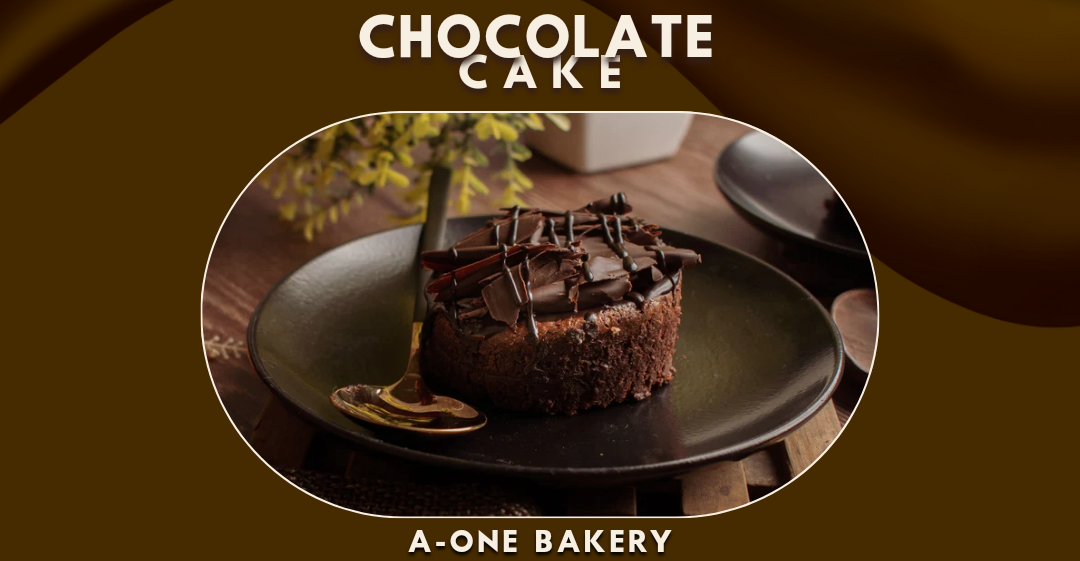
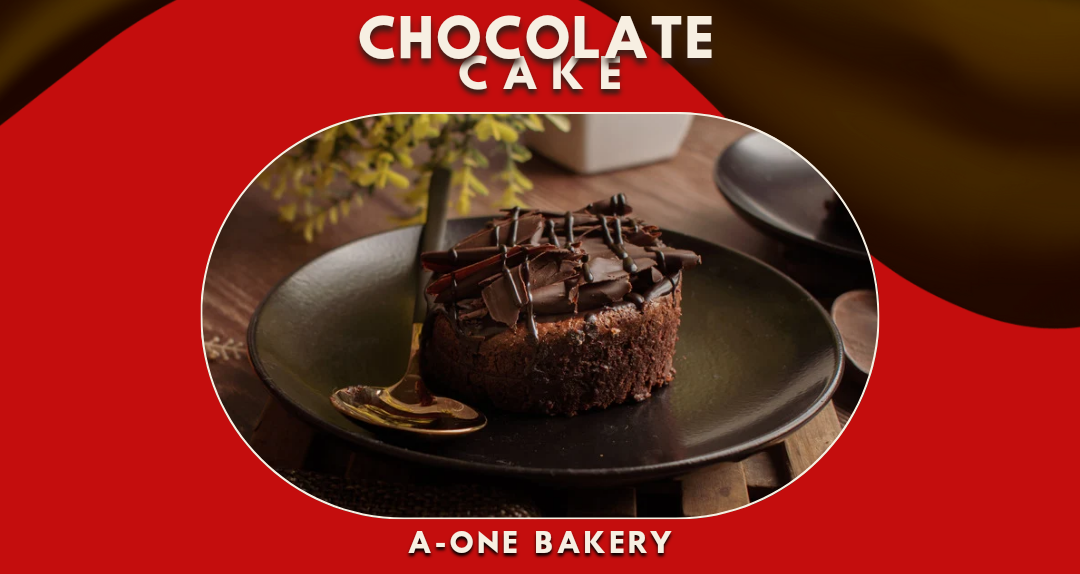
colour

diff --git a/public/CSS/about.css b/public/CSS/about.css
@@ -9,7 +9,7 @@
 }
 #left{
     width: 50%;
-    border-right: solid 5px #431709;
+    border-right: solid 5px #C40D0D;
     border-radius: 20px;
 }
 #left img{
@@ -26,19 +26,19 @@
          linear-gradient(45deg,
              rgba(0,0,0,0) 0%,
              rgba(0,0,0,0) calc(40% - 0.8px),
-             #431709 50%,
+             #C40D0D 50%,
              rgba(0,0,0,0) calc(50% + 0.8px),
              rgba(0,0,0,0) 100%),
          linear-gradient(-45deg,
              rgba(0,0,0,0) 0%,
              rgba(0,0,0,0) calc(40% - 0.8px),
-             #431709 50%,
+             #C40D0D 50%,
              rgba(0,0,0,0) calc(50% + 0.8px),
              rgba(0,0,0,0) 100%);
 }
 #right{
     width: 50%;
-    border-left: solid 4px #431709;
+    border-left: solid 4px #c40D0D;
     border-radius: 20px;
 }
 .blankBox{
@@ -57,19 +57,19 @@
          linear-gradient(45deg,
              rgba(0,0,0,0) 0%,
              rgba(0,0,0,0) calc(40% - 0.8px),
-             #431709 50%,
+             #C40D0D 50%,
              rgba(0,0,0,0) calc(50% + 0.8px),
              rgba(0,0,0,0) 100%),
          linear-gradient(-45deg,
              rgba(0,0,0,0) 0%,
              rgba(0,0,0,0) calc(40% - 0.8px),
-             #431709 50%,
+             #C40D0D 50%,
              rgba(0,0,0,0) calc(50% + 0.8px),
              rgba(0,0,0,0) 100%);
 }
 .aim{
     width: 80%;
-    border: dashed 3px #431709;
+    border: dashed 3px #C40D0D;
     border-radius: 20px;
     margin: 30px 0px;
     margin-right: 15px;
@@ -81,7 +81,7 @@
     padding: 15px;
     padding-left: 20px;
     text-align: justify;
-    color: #431709;
+    color: #C40D0D;
     font-size: 18px;
 }
 
@@ -103,7 +103,7 @@
     width: 75%;
     margin-left: 33px;
     height: 300px;
-    border: solid 4px #431709;
+    border: solid 4px #C40D0D;
     border-radius: 50px;
 }
 #slant2{
@@ -113,13 +113,13 @@
          linear-gradient(45deg,
              rgba(0,0,0,0) 0%,
              rgba(0,0,0,0) calc(40% - 0.8px),
-             #431709 50%,
+             #C40D0D 50%,
              rgba(0,0,0,0) calc(50% + 0.8px),
              rgba(0,0,0,0) 100%),
          linear-gradient(-45deg,
              rgba(0,0,0,0) 0%,
              rgba(0,0,0,0) calc(40% - 0.8px),
-             #431709 50%,
+             #C40D0D 50%,
              rgba(0,0,0,0) calc(50% + 0.8px),
              rgba(0,0,0,0) 100%);
 }

diff --git a/public/CSS/style.css b/public/CSS/style.css
@@ -19,10 +19,10 @@ body{
     height: 230px;
     display: flex;
     align-items: center;
-    background-color: rgba(236, 239, 242, 0.618);
+    background-color: white;
 }
 #navbar img{
-    height: 100%;
+    height: 80%;
     margin-left: 30px;
 }
 #navbar ul{
@@ -38,7 +38,7 @@ body{
     margin: 0px 10px;
 }
 #navbar ul li a{
-    color: #431709;
+    color: #C40D0D;
     display: block;
     padding: 1rem;
     text-decoration: none;
@@ -49,7 +49,7 @@ body{
 }
 #navbar ul li a:hover{
     color: aliceblue;
-    background-color: #432616;
+    background-color: #C40D0D;
     transition: all 1s;
 }
 #threeLines{
@@ -99,7 +99,7 @@ body{
 #footer button{
     width: 100px;
     height: 40px;
-    background-color: #431709;
+    background-color: #bb3636;
     cursor: pointer;
     border: none;
     border-radius: 20px;

diff --git a/public/CSS/products.css b/public/CSS/products.css
@@ -23,14 +23,15 @@
 }
 #ftr{
     width: 20%;
-    background-color: #43261645;
+    background-color: #e75a5aa7;
 }
 #cost{
     width: 40%;
-    background-color: #43261645;
+    background-color: #e75a5aa7;
 }
 #flavor{
     width: 40%;
+    background-color: #e75a5a46;
 }
 #filters form h2{
     margin: 15px;
@@ -75,7 +76,7 @@
     border-radius: 20px;
     margin: 20px;
     transition: 1s;
-    background-color: #431709;
+    background-color: #C40D0D;
 }
 .cake:hover{
     width: 90%;
